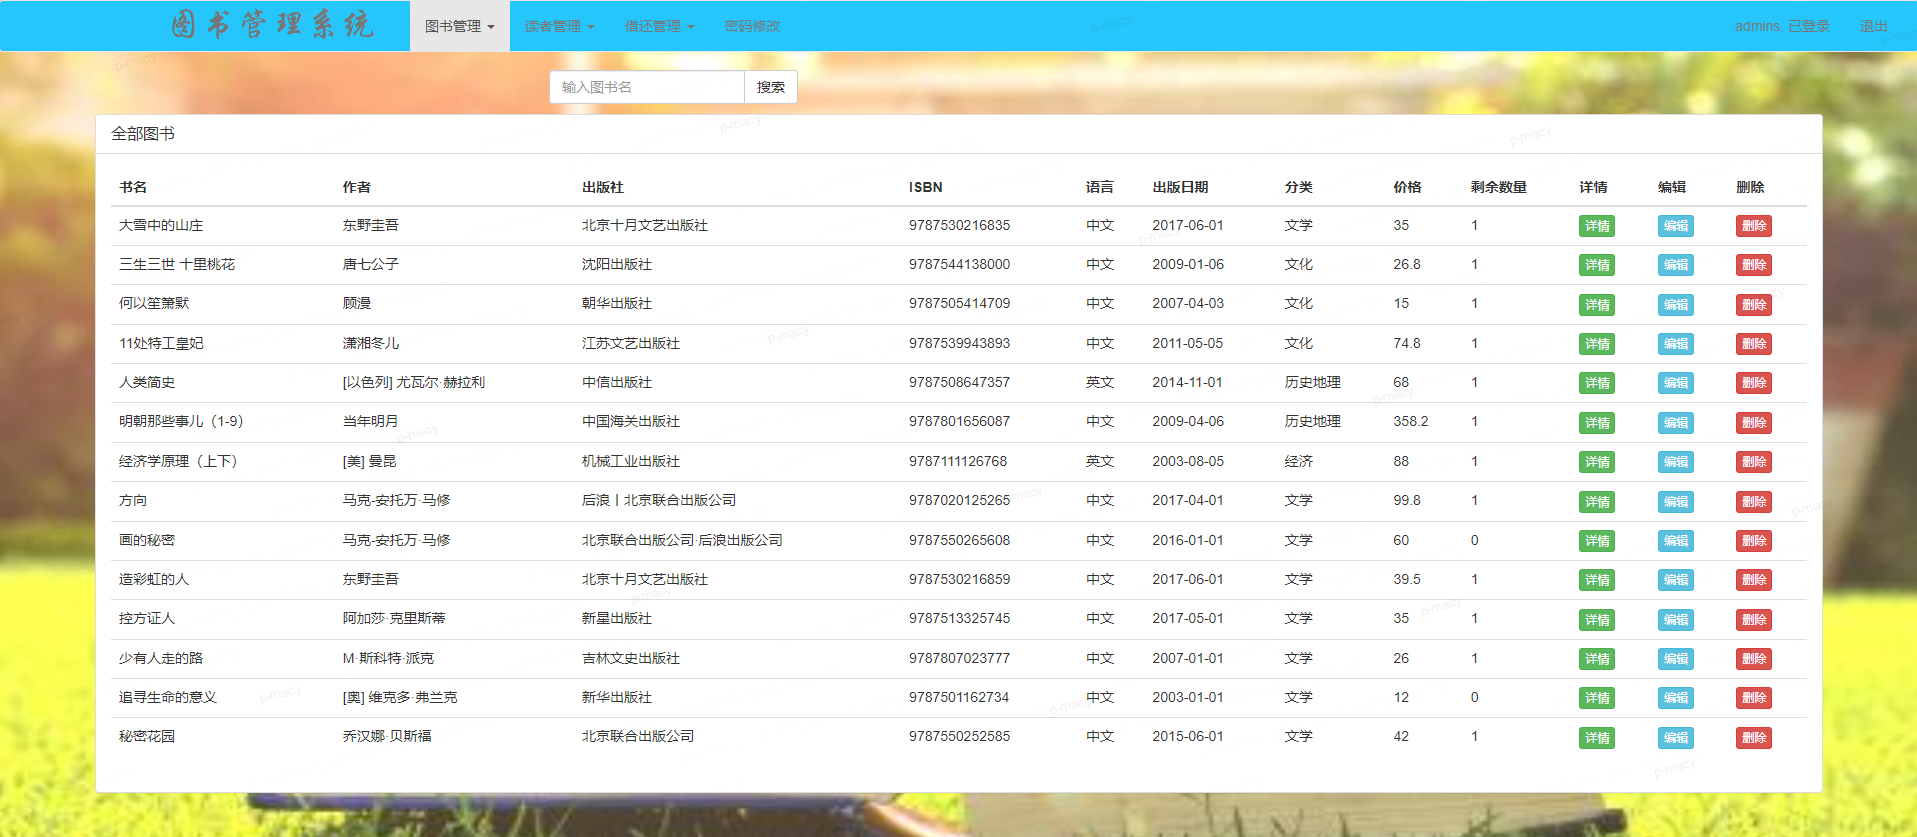
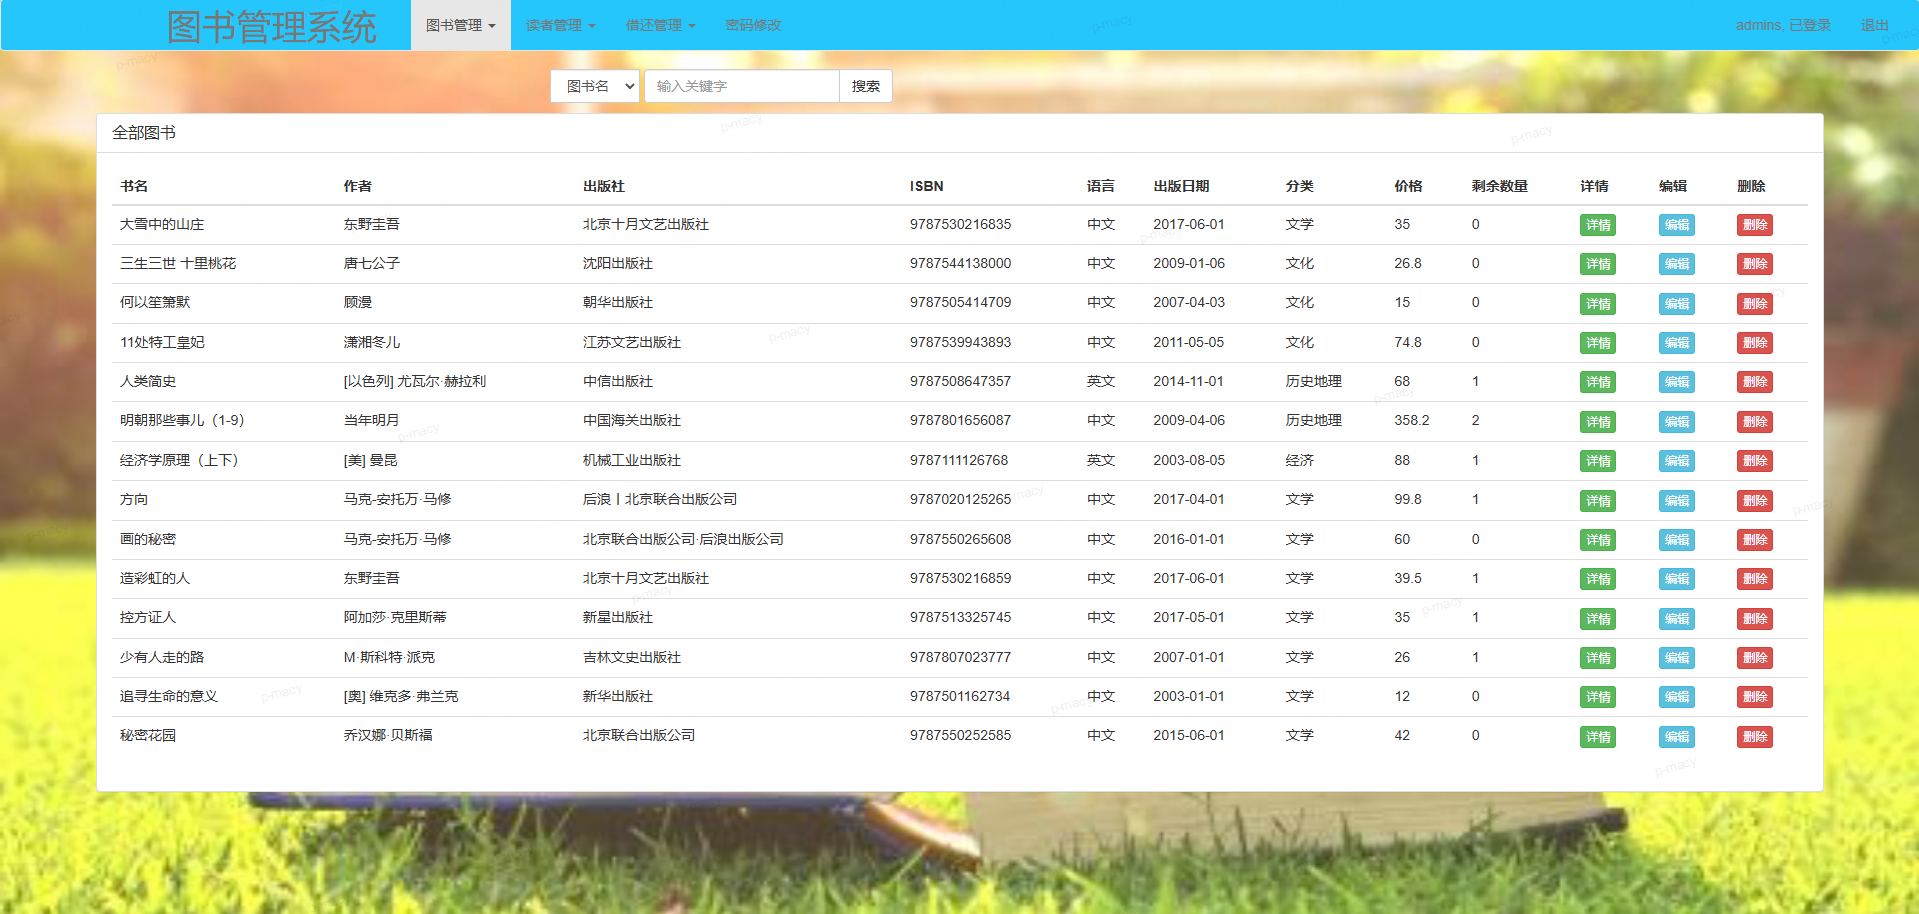
Add multiple ways to search for books

Changed region(s): [[0.0, 0.0, 1.0, 1.0], [0.9541, 0.7766, 0.9849, 0.8076], [0.0, 0.7766, 0.0308, 0.8076]]

diff --git a/views/admin_book.html b/views/admin_book.html
@@ -22,37 +22,37 @@
 <div id="header"></div>
 
 <div style="padding: 70px 550px 10px">
-    <form  class="form-inline" id="searchform">
+    <form class="form-inline" id="searchform">
         <div class="input-group">
-            <input type="text" placeholder="输入图书名" class="form-control" id="search" name="searchWord" class="form-control">
+            <select class="form-control" name="search_field" id="search_field">
+                <option value="name">图书名</option>
+                <option value="author">作者</option>
+                <option value="publish">出版社</option>
+                <option value="isbn">ISBN</option>
+            </select>
+        </div>
+        <div class="input-group">
+            <input type="text" placeholder="输入关键字" class="form-control" id="search_keyword" name="search_keyword"
+                   class="form-control">
             <span class="input-group-btn">
-                <input type="submit" value="搜索" class="btn btn-default" onclick="searchBook($('#search').val())">
+                <input type="submit" value="搜索" class="btn btn-default" onclick="searchBook()">
             </span>
         </div>
     </form>
-    <script>
-        $("#searchform").submit(function () {
-            var val = $("#search").val();
-            if (val == '') {
-                alert("请输入关键字");
-                return false;
-            }
-        });
-    </script>
 </div>
 
 <div style="position: relative; top: 10%">
     {{if .succ}}
-        <div class="alert alert-success alert-dismissable">
-            <button type="button" class="close" data-dismiss="alert" aria-hidden="true">&times;</button>
-            {{.succ}}
-        </div>
+    <div class="alert alert-success alert-dismissable">
+        <button type="button" class="close" data-dismiss="alert" aria-hidden="true">&times;</button>
+        {{.succ}}
+    </div>
     {{end}}
     {{if .error}}
-        <div class="alert alert-danger alert-dismissable">
-            <button type="button" class="close" data-dismiss="alert" aria-hidden="true">&times;</button>
-            {{.error}}
-        </div>
+    <div class="alert alert-danger alert-dismissable">
+        <button type="button" class="close" data-dismiss="alert" aria-hidden="true">&times;</button>
+        {{.error}}
+    </div>
     {{end}}
 </div>
 
@@ -80,30 +80,30 @@
             </thead>
             <tbody>
             {{range .books}}
-                <tr>
-                    <td>{{.Name}}</td>
-                    <td>{{.Author}}</td>
-                    <td>{{.Publish}}</td>
-                    <td>{{.ISBN}}</td>
-                    <td>{{.Language}}</td>
-                    <td>{{.PubDate}}</td>
-                    <td>{{.ClassInfo.ClassName}}</td>
-                    <td>{{.Price}}</td>
-                    <td>{{.Number}}</td>
-                    <td>
-                        <a href="/admin/book/{{.BookID}}">
-                            <button type="button" class="btn btn-success btn-xs">详情</button>
-                        </a>
-                    </td>
-                    <td>
-                        <a href="/admin/book/update/{{.BookID}}">
-                            <button type="button" class="btn btn-info btn-xs">编辑</button>
-                        </a>
-                    </td>
-                    <td>
-                        <button type="button" class="btn btn-danger btn-xs" onclick="deleteBook({{.BookID}})">删除</button>
-                    </td>
-                </tr>
+            <tr>
+                <td>{{.Name}}</td>
+                <td>{{.Author}}</td>
+                <td>{{.Publish}}</td>
+                <td>{{.ISBN}}</td>
+                <td>{{.Language}}</td>
+                <td>{{.PubDate}}</td>
+                <td>{{.ClassInfo.ClassName}}</td>
+                <td>{{.Price}}</td>
+                <td>{{.Number}}</td>
+                <td>
+                    <a href="/admin/book/{{.BookID}}">
+                        <button type="button" class="btn btn-success btn-xs">详情</button>
+                    </a>
+                </td>
+                <td>
+                    <a href="/admin/book/update/{{.BookID}}">
+                        <button type="button" class="btn btn-info btn-xs">编辑</button>
+                    </a>
+                </td>
+                <td>
+                    <button type="button" class="btn btn-danger btn-xs" onclick="deleteBook({{.BookID}})">删除</button>
+                </td>
+            </tr>
             {{end}}
             </tbody>
         </table>
@@ -111,14 +111,21 @@
 </div>
 
 <script>
-    function searchBook(bookName) {
-        fetch('/admin/book/?searchWord=' + bookName, {
+    function searchBook() {
+        var searchField = $("#search_field").val(); // 获取下拉框的值
+        var searchKeyword = $("#search_keyword").val(); // 获取输入框的值
+        if (searchKeyword == '') {
+            alert("请输入关键词");
+            return;
+        }
+        fetch('/admin/book/?search_field=' + searchField + '&search_keyword=' + searchKeyword, {
             method: 'GET',
             headers: {
                 'Content-Type': 'application/json'
             }
         })
     }
+
     function deleteBook(bookId) {
         if (confirm("确定要删除这本书吗？")) {
             fetch('/admin/book/' + bookId, {
@@ -127,18 +134,18 @@
                     'Content-Type': 'application/json'
                 }
             })
-            .then(response => response.json())
-            .then(data => {
-                if (data.success) {
-                    alert(data.success);
-                    window.location.href = "/admin/book";
-                } else {
-                    alert(data.error);
-                }
-            })
-            .catch(error => {
-                alert('发生错误: ' + error);
-            });
+                .then(response => response.json())
+                .then(data => {
+                    if (data.success) {
+                        alert(data.success);
+                        window.location.href = "/admin/book";
+                    } else {
+                        alert(data.error);
+                    }
+                })
+                .catch(error => {
+                    alert('发生错误: ' + error);
+                });
         }
     }
 </script>

diff --git a/views/reader_book.html b/views/reader_book.html
@@ -23,21 +23,21 @@
 <div style="padding: 20px 550px 10px">
     <form class="form-inline" id="searchform">
         <div class="input-group">
-            <input type="text" placeholder="输入图书名" class="form-control" id="search" name="searchWord">
+            <select class="form-control" name="search_field" id="search_field">
+                <option value="name">图书名</option>
+                <option value="author">作者</option>
+                <option value="publish">出版社</option>
+                <option value="isbn">ISBN</option>
+            </select>
+        </div>
+        <div class="input-group">
+            <input type="text" placeholder="输入关键字" class="form-control" id="search_keyword" name="search_keyword"
+                   class="form-control">
             <span class="input-group-btn">
-                <input type="submit" value="搜索" class="btn btn-default" onclick="searchBook($('#search').val())">
+                <input type="submit" value="搜索" class="btn btn-default" onclick="searchBook()">
             </span>
         </div>
     </form>
-    <script>
-        $("#searchform").submit(function () {
-            var val = $("#search").val();
-            if (val == '') {
-                alert("请输入关键字");
-                return false;
-            }
-        });
-    </script>
 </div>
 
 <div class="panel panel-default" style="width: 90%; margin-left: 5%">
@@ -102,8 +102,14 @@
     </div>
 </div>
 <script>
-    function searchBook(bookName) {
-        fetch('/reader/book/?searchWord=' + bookName, {
+    function searchBook() {
+        var searchField = $("#search_field").val(); // 获取下拉框的值
+        var searchKeyword = $("#search_keyword").val(); // 获取输入框的值
+        if (searchKeyword == '') {
+            alert("请输入关键词");
+            return;
+        }
+        fetch('/admin/book/?search_field=' + searchField + '&search_keyword=' + searchKeyword, {
             method: 'GET',
             headers: {
                 'Content-Type': 'application/json'

diff --git a/controllers/book_ctrl.go b/controllers/book_ctrl.go
@@ -29,8 +29,7 @@ func getMyLendList(readerID int64) []int64 {
 	return myLendList
 }
 func ReaderBook(c *gin.Context) {
-	searchWord := c.Query("searchWord")
-	books := queryBook(searchWord)
+	books := queryBook(c)
 
 	// 从Cookie中获取读者ID
 	readerIDStr, err := c.Cookie("readercard")
@@ -58,9 +57,7 @@ func ReaderBook(c *gin.Context) {
 
 // AdminShowBookPage 获取所有图书
 func AdminShowBookPage(c *gin.Context) {
-
-	searchWord := c.Query("searchWord")
-	books := queryBook(searchWord)
+	books := queryBook(c)
 	if len(books) > 0 {
 		c.HTML(http.StatusOK, "admin_book.html", gin.H{"books": books})
 	} else {
@@ -163,12 +160,16 @@ func ReaderBookDetail(c *gin.Context) {
 }
 
 // 辅助函数
-func queryBook(name string) []models.Book {
-	if name == "" {
+func queryBook(c *gin.Context) []models.Book {
+	// 获取前端传入的查询参数
+	searchField := c.Query("search_field")
+	searchKeyword := c.Query("search_keyword")
+	if searchKeyword == "" {
 		return getAllBooks()
 	}
 	var books []models.Book
-	if err := utils.DB.Preload("ClassInfo").Where("name LIKE ?", "%"+name+"%").Find(&books).Error; err != nil {
+	var querySql = fmt.Sprintf("%s LIKE ?", searchField)
+	if err := utils.DB.Preload("ClassInfo").Where(querySql, "%"+searchKeyword+"%").Find(&books).Error; err != nil {
 		fmt.Println("Error querying books:", err)
 	}
 	return books

diff --git a/controllers/middleware.go b/controllers/middleware.go
@@ -50,3 +50,15 @@ func AuthMiddleware() gin.HandlerFunc {
 		c.Next()
 	}
 }
+
+func ErrorMiddleware() gin.HandlerFunc {
+	return func(c *gin.Context) {
+		defer func() {
+			if err := recover(); err != nil {
+				c.JSON(http.StatusInternalServerError, gin.H{"error": "Internal server error"})
+				c.Abort()
+			}
+		}()
+		c.Next()
+	}
+}

diff --git a/main.go b/main.go
@@ -7,6 +7,7 @@ import (
 
 func main() {
 	r := gin.Default()
+	r.Use(controllers.ErrorMiddleware())
 	r.LoadHTMLGlob("views/*")
 	r.Static("/views", "./views")
 	r.Static("/static", "./static")
